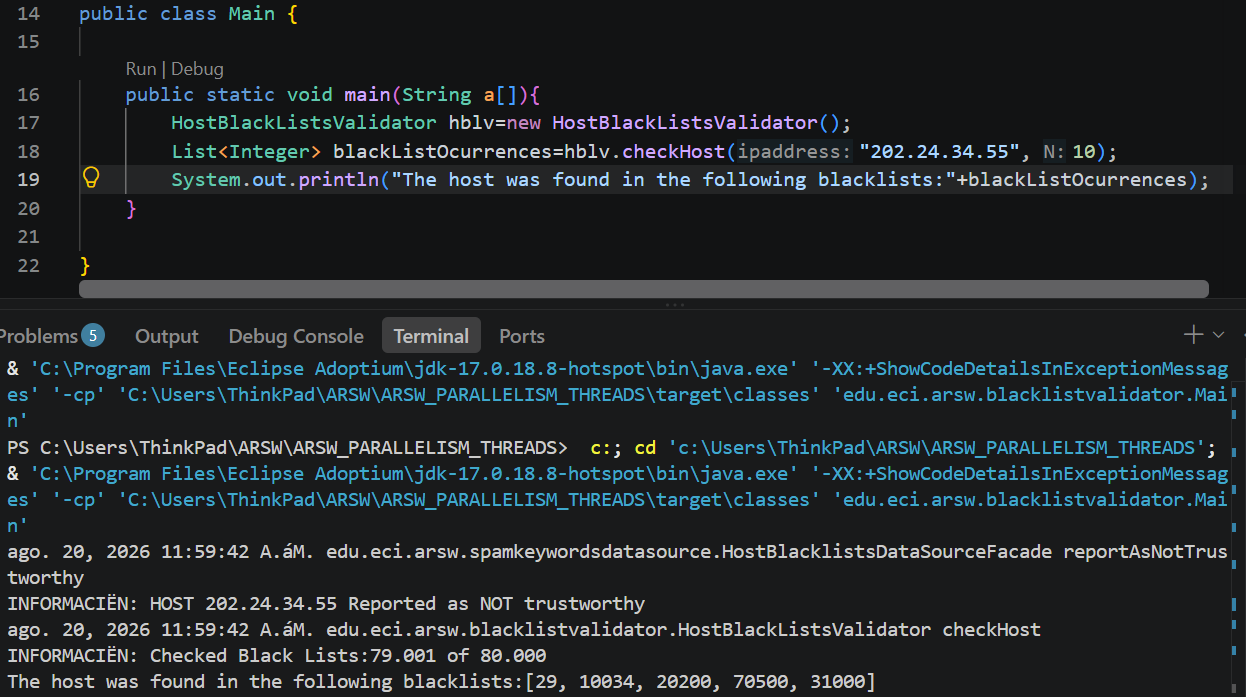
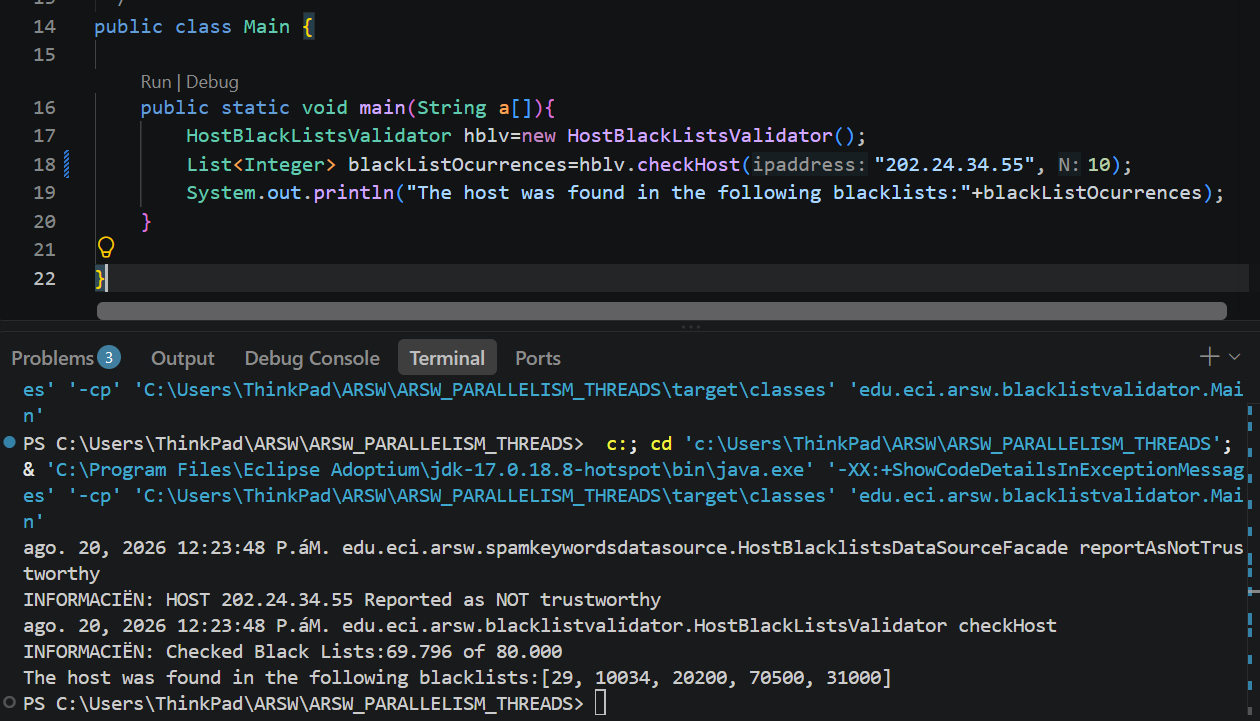
Explaining changes

diff --git a/src/main/java/edu/eci/arsw/blacklistvalidator/HostBlackListsValidator.java b/src/main/java/edu/eci/arsw/blacklistvalidator/HostBlackListsValidator.java
@@ -1,8 +1,3 @@
-/*
- * To change this license header, choose License Headers in Project Properties.
- * To change this template file, choose Tools | Templates
- * and open the template in the editor.
- */
 package edu.eci.arsw.blacklistvalidator;
 
 import edu.eci.arsw.spamkeywordsdatasource.HostBlacklistsDataSourceFacade;
@@ -19,8 +14,8 @@ import java.util.logging.Logger;
  */
 public class HostBlackListsValidator {
 
-    private static final int BLACK_LIST_ALARM_COUNT=5;
-    
+    private static final int BLACK_LIST_ALARM_COUNT = 5;
+
     /**
      * Check the given host's IP address in all the available black lists,
      * and report it as NOT Trustworthy when such IP was reported in at least
@@ -32,17 +27,17 @@ public class HostBlackListsValidator {
      * @return  Blacklists numbers where the given host's IP address was found.
      */
     public List<Integer> checkHost(String ipaddress, int N){
-        
-        HostBlacklistsDataSourceFacade skds=HostBlacklistsDataSourceFacade.getInstance();
+
+        HostBlacklistsDataSourceFacade skds = HostBlacklistsDataSourceFacade.getInstance();
 
         int totalServers = skds.getRegisteredServersCount();
         int interval = totalServers / N;
 
         HostSearchThread[] threads = new HostSearchThread[N];
-        
         List<Integer> ocurrencesShared = Collections.synchronizedList(new LinkedList<>());
+
         int start, end;
-        
+
         for (int i = 0; i < N; i++) {
             start = i*interval;
             if (i == N-1) {
@@ -56,7 +51,7 @@ public class HostBlackListsValidator {
         }
 
         // Wait for all threads to finish
-        for (int i = 0; i < N; i++) {   
+        for (int i = 0; i < N; i++) {
             try {
                 threads[i].join();
             } catch (InterruptedException ex) {
@@ -64,28 +59,26 @@ public class HostBlackListsValidator {
             }
         }
 
-        // Count total occurrences from all threads
+        // Sum how many servers each thread actually got to check
         int checkedListsCount = 0;
         for (int i = 0; i < N; i++) {
             checkedListsCount += threads[i].getCheckedListsCount();
         }
-        
+
         int totalOccurrencesCount = ocurrencesShared.size();
 
-        
-        if (totalOccurrencesCount>=BLACK_LIST_ALARM_COUNT){
+        if (totalOccurrencesCount >= BLACK_LIST_ALARM_COUNT){
             skds.reportAsNotTrustworthy(ipaddress);
         }
         else{
             skds.reportAsTrustworthy(ipaddress);
-        }                
-        
+        }
+
         LOG.log(Level.INFO, "Checked Black Lists:{0} of {1}", new Object[]{checkedListsCount, skds.getRegisteredServersCount()});
-        
+
         return ocurrencesShared;
     }
-    
+
     private static final Logger LOG = Logger.getLogger(HostBlackListsValidator.class.getName());
-    
 
 }

diff --git a/src/main/java/edu/eci/arsw/blacklistvalidator/HostSearchThread.java b/src/main/java/edu/eci/arsw/blacklistvalidator/HostSearchThread.java
@@ -1,9 +1,7 @@
 package edu.eci.arsw.blacklistvalidator;
 
 import edu.eci.arsw.spamkeywordsdatasource.*;
-import java.util.Collections;
 import java.util.List;
-import java.util.LinkedList;
 
 /**
  * @author Mariana Malagón
@@ -13,11 +11,11 @@ import java.util.LinkedList;
 public class HostSearchThread extends Thread {
     private int start, end;
     private String ipAdress;
-    private HostBlacklistsDataSourceFacade facade; 
-    private int checkedListsCount = 0;
+    private HostBlacklistsDataSourceFacade facade;
     private List<Integer> ocurrencesShared;
+    private int checkedListsCount = 0;
     private int BLACK_LIST_ALARM_COUNT;
-    
+
     public HostSearchThread(int start, int end, String ipAdress, HostBlacklistsDataSourceFacade facade, List<Integer> ocurrencesShared, int BLACK_LIST_ALARM_COUNT){
         this.start = start;
         this.end = end;
@@ -30,15 +28,25 @@ public class HostSearchThread extends Thread {
     @Override
     public void run() {
         for (int i = start; i <= end; i++) {
+
+            // Chequeo al INICIO de cada iteración: cualquier hilo,
+            // haya encontrado algo o no, verifica si ya se cerró la búsqueda.
+            synchronized (ocurrencesShared) {
+                if (ocurrencesShared.size() >= BLACK_LIST_ALARM_COUNT) {
+                    return;
+                }
+            }
+
             checkedListsCount++;
+
             if (facade.isInBlackListServer(i, ipAdress)) {
                 synchronized (ocurrencesShared) {
                     if (ocurrencesShared.size() >= BLACK_LIST_ALARM_COUNT) {
-                        return; 
+                        return;
                     }
                     ocurrencesShared.add(i);
                     if (ocurrencesShared.size() >= BLACK_LIST_ALARM_COUNT) {
-                        return; 
+                        return;
                     }
                 }
             }
@@ -49,5 +57,3 @@ public class HostSearchThread extends Thread {
         return checkedListsCount;
     }
 }
-
-

diff --git a/src/main/java/edu/eci/arsw/blacklistvalidator/Main.java b/src/main/java/edu/eci/arsw/blacklistvalidator/Main.java
@@ -15,7 +15,7 @@ public class Main {
     
     public static void main(String a[]){
         HostBlackListsValidator hblv=new HostBlackListsValidator();
-        List<Integer> blackListOcurrences=hblv.checkHost("212.24.24.55", 10);
+        List<Integer> blackListOcurrences=hblv.checkHost("202.24.34.55", 10);
         System.out.println("The host was found in the following blacklists:"+blackListOcurrences);
     }
     

diff --git a/README.md b/README.md
@@ -8,3 +8,26 @@ Mariana Malagón Tochoy
 
 Paula Valentina Lozano Castañeda
 
+
+Para esta parte, el objetivo era hacer que la búsqueda distribuida entre listas negras se detuviera apenas, entre todos los hilos, se detectara el número de ocurrencias requerido (BLACK_LIST_ALARM_COUNT = 5), sin esperar a que cada hilo terminara de revisar la totalidad de su rango asignado, y garantizando que no se presentaran condiciones de carrera.
+
+En la versión original, cada HostSearchThread guardaba sus propias coincidencias (ocurrences) en una lista privada e independiente. Esto significaba que ningún hilo tenía forma de saber, mientras seguía corriendo, cuántas coincidencias habían encontrado los demás en conjunto — el conteo total solo se conocía al final, cuando HostBlackListsValidator sumaba los resultados de todos los hilos después de que ya habían terminado. Ese diseño hacía imposible detener la búsqueda a tiempo, porque no existía ningún punto donde el estado global fuera visible durante la ejecución.
+
+Cambio principal: una lista compartida entre todos los hilos
+
+Reemplazamos las listas privadas por una única lista compartida (ocurrencesShared), creada una sola vez en HostBlackListsValidator.checkHost() y pasada por constructor a cada HostSearchThread. Como varios hilos escriben simultáneamente sobre esta lista, cualquier acceso a ella (lectura de tamaño o escritura) se hace dentro de bloques synchronized(ocurrencesShared), para evitar que dos hilos la modifiquen al mismo tiempo y corrompan su estructura interna.
+
+
+Dentro del bloque sincronizado, cada hilo revisa el tamaño de la lista dos veces: una antes de agregar su hallazgo, y otra después, para evitar que este mismo hilo pueda seguir si ya se completó la aparición de la IP 5 veces.
+
+El chequeo de antes evita que un hilo agregue una coincidencia de más cuando, mientras esperaba su turno para entrar al bloque synchronized, otro hilo ya alcanzó el límite. Sin este chequeo, se podría terminar con más de 5 elementos en la lista, incumpliendo la condición de "detenerse apenas se llegue al límite".
+
+El chequeo de después detiene al hilo que, con su propia adición, acaba de completar el límite — evitando que siga buscando en el resto de su rango sin necesidad, ya que la búsqueda global debería considerarse cerrada en ese momento.
+
+Ambos chequeos, junto con el add(), están dentro del mismo bloque synchronized porque la operación completa (revisar, decidir, agregar, revisar de nuevo) debe ser atómica: si se separaran, se abriría una ventana donde otro hilo podría intercalarse entre el chequeo y la escritura, permitiendo que el límite se sobrepase de todas formas.
+
+Aquí mostramos las pruebas de funcionamiento con dos IP. Vemos que cuando esta es NotTrustworthy no se recorre toda la lista:
+![](/img/NotTrustworthy.png)
+
+Y cuando sí es Trustworthy, debería haber recorrido todas las listas:
+![](/img/Trustworthy.png)
